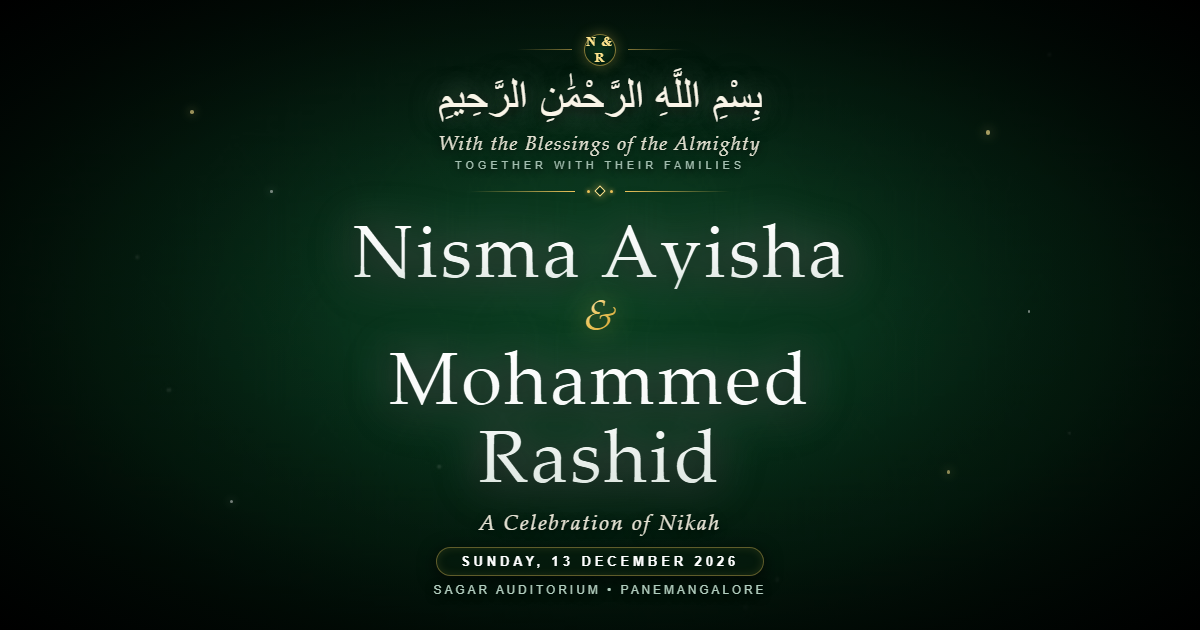
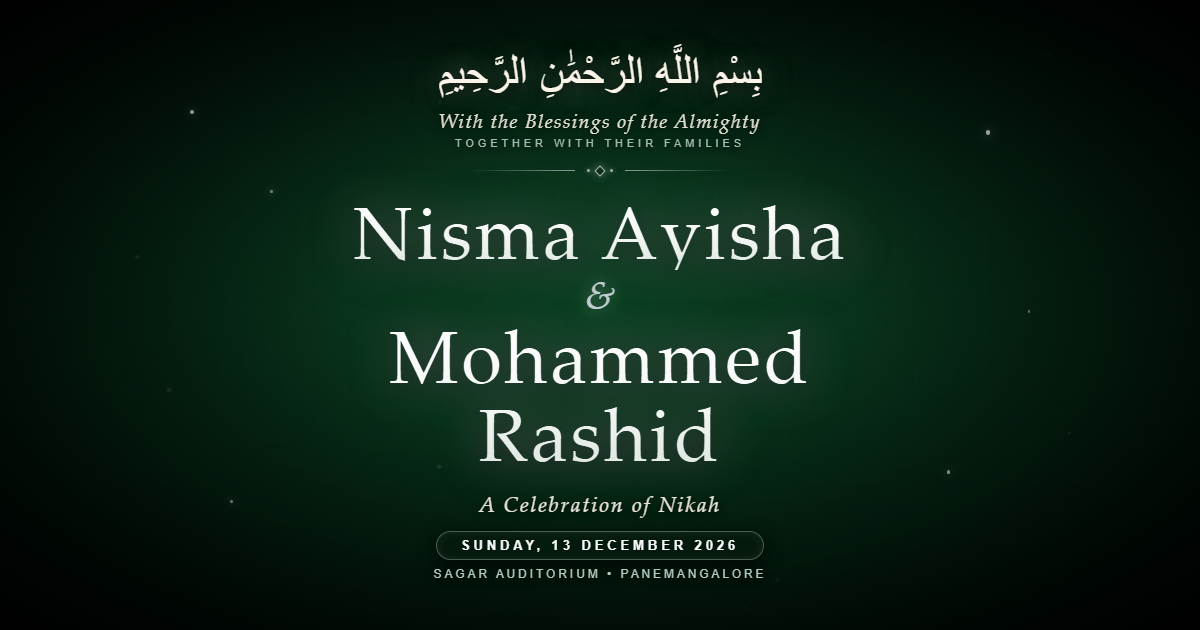
Remove N&R monogram and all gold elements: pure frost silver and dark green vignette

Changed region(s): [[0.3083, 0.5127, 0.6783, 0.9651], [0.2775, 0.0603, 0.7092, 0.5127]]

diff --git a/public/og-preview.html b/public/og-preview.html
@@ -2,10 +2,10 @@
 <html lang="en">
 <head>
   <meta charset="UTF-8">
-  <title>OG Preview Card - Seamless Dark Green Vignette</title>
+  <title>OG Preview Card - Frost Silver Dark Green Vignette</title>
   <link rel="preconnect" href="https://fonts.googleapis.com">
   <link rel="preconnect" href="https://fonts.gstatic.com" crossorigin>
-  <link href="https://fonts.googleapis.com/css2?family=Amiri:wght@400;700&family=Cinzel:wght@400;600;700&family=Cormorant+Garamond:ital,wght@0,300;0,400;0,500;0,600;1,400;1,500&family=Plus+Jakarta+Sans:wght@300;400;500;600;700&display=swap" rel="stylesheet">
+  <link href="https://fonts.googleapis.com/css2?family=Amiri:wght@400;700&family=Cinzel:wght@400;600;700&family=Cormorant+Garamond:ital,wght@0,300;0,400;0,500;0,600;1,300;1,400;1,500&family=Plus+Jakarta+Sans:wght@300;400;500;600;700&display=swap" rel="stylesheet">
   <style>
     * {
       margin: 0;
@@ -54,18 +54,18 @@
       pointer-events: none;
     }
 
-    /* Ambient Floating Starlight Particles */
+    /* Ambient Floating Frost Starlight Particles */
     .starlight {
       position: absolute;
       border-radius: 50%;
       pointer-events: none;
     }
-    .star-1 { width: 3.5px; height: 3.5px; background: #FFE58F; top: 110px; left: 190px; opacity: 0.6; box-shadow: 0 0 10px #FFE58F; }
-    .star-2 { width: 2.5px; height: 2.5px; background: #FFF; top: 190px; left: 270px; opacity: 0.45; box-shadow: 0 0 8px #FFF; }
-    .star-3 { width: 4.5px; height: 4.5px; background: #FFE58F; top: 130px; right: 210px; opacity: 0.65; box-shadow: 0 0 12px #FFE58F; }
-    .star-4 { width: 3px; height: 3px; background: #FFF; top: 500px; left: 230px; opacity: 0.45; box-shadow: 0 0 8px #FFF; }
-    .star-5 { width: 3.5px; height: 3.5px; background: #FFE58F; top: 470px; right: 250px; opacity: 0.55; box-shadow: 0 0 10px #FFE58F; }
-    .star-6 { width: 2.5px; height: 2.5px; background: #FFF; top: 310px; right: 170px; opacity: 0.45; }
+    .star-1 { width: 3.5px; height: 3.5px; background: #FFFFFF; top: 110px; left: 190px; opacity: 0.55; box-shadow: 0 0 10px rgba(255, 255, 255, 0.7); }
+    .star-2 { width: 2.5px; height: 2.5px; background: #E2E8F0; top: 190px; left: 270px; opacity: 0.45; box-shadow: 0 0 8px #FFF; }
+    .star-3 { width: 4.5px; height: 4.5px; background: #FFFFFF; top: 130px; right: 210px; opacity: 0.6; box-shadow: 0 0 12px rgba(255, 255, 255, 0.8); }
+    .star-4 { width: 3px; height: 3px; background: #E2E8F0; top: 500px; left: 230px; opacity: 0.45; box-shadow: 0 0 8px #FFF; }
+    .star-5 { width: 3.5px; height: 3.5px; background: #FFFFFF; top: 470px; right: 250px; opacity: 0.5; box-shadow: 0 0 10px rgba(255, 255, 255, 0.7); }
+    .star-6 { width: 2.5px; height: 2.5px; background: #E2E8F0; top: 310px; right: 170px; opacity: 0.4; }
 
     /* Central Content Box - Strictly 680px for perfect WhatsApp Web square-crop */
     .content-box {
@@ -78,46 +78,13 @@
       z-index: 10;
     }
 
-    /* Royal Bridal Monogram Badge */
-    .monogram-badge {
-      display: flex;
-      align-items: center;
-      justify-content: center;
-      gap: 12px;
-      margin-bottom: 8px;
-    }
-    .monogram-wing {
-      width: 55px;
-      height: 1px;
-      background: linear-gradient(90deg, transparent, rgba(236, 195, 90, 0.55));
-    }
-    .monogram-wing.right {
-      background: linear-gradient(270deg, transparent, rgba(236, 195, 90, 0.55));
-    }
-    .monogram-circle {
-      display: flex;
-      align-items: center;
-      justify-content: center;
-      width: 32px;
-      height: 32px;
-      border-radius: 50%;
-      border: 1px solid rgba(236, 195, 90, 0.55);
-      background: radial-gradient(circle, #09331a 0%, #03170b 100%);
-      box-shadow: 0 0 14px rgba(236, 195, 90, 0.3);
-      font-family: 'Cormorant Garamond', serif;
-      font-size: 13px;
-      font-weight: 600;
-      color: #FFE58F;
-      letter-spacing: 0.1em;
-    }
-
     /* Bismillah Calligraphy */
     .bismillah {
       font-family: 'Amiri', serif;
       font-size: 44px;
       color: #FAF5E8;
       letter-spacing: 0.04em;
-      margin-bottom: 5px;
+      margin-bottom: 6px;
       text-shadow: 
         0 0 30px rgba(250, 245, 232, 0.5),
         0 3px 12px rgba(0, 0, 0, 0.9);
@@ -140,26 +107,27 @@
       letter-spacing: 0.4em;
       text-transform: uppercase;
       color: #A3BFB0;
-      margin-bottom: 16px;
+      margin-bottom: 18px;
       font-weight: 500;
       text-shadow: 0 2px 6px rgba(0, 0, 0, 0.8);
     }
 
-    /* Luxury Gold Divider */
+    /* Frost Silver Divider */
     .divider {
       display: flex;
       align-items: center;
       justify-content: center;
       width: 260px;
-      margin: 0 auto 16px;
+      margin: 0 auto 18px;
+      opacity: 0.85;
     }
     .divider-line {
       flex: 1;
       height: 1px;
-      background: linear-gradient(90deg, transparent, #ECC35A);
+      background: linear-gradient(90deg, transparent, rgba(226, 232, 240, 0.7));
     }
     .divider-line.right {
-      background: linear-gradient(270deg, transparent, #ECC35A);
+      background: linear-gradient(270deg, transparent, rgba(226, 232, 240, 0.7));
     }
     .divider-center {
       display: flex;
@@ -171,24 +139,24 @@
       width: 3px;
       height: 3px;
       border-radius: 50%;
-      background: #ECC35A;
-      box-shadow: 0 0 4px #ECC35A;
+      background: rgba(226, 232, 240, 0.8);
+      box-shadow: 0 0 4px rgba(255, 255, 255, 0.6);
     }
     .divider-diamond {
       width: 8px;
       height: 8px;
-      border: 1px solid #FFE58F;
+      border: 1px solid rgba(248, 250, 252, 0.8);
       background: #092e18;
       transform: rotate(45deg);
-      box-shadow: 0 0 8px rgba(236, 195, 90, 0.6);
+      box-shadow: 0 0 8px rgba(255, 255, 255, 0.4);
     }
 
-    /* Stately Couple Names with Luminous Glow */
+    /* Stately Couple Names in Frost Silver */
     .couple-names {
       display: flex;
       flex-direction: column;
       align-items: center;
-      margin-bottom: 14px;
+      margin-bottom: 16px;
     }
     .name {
       font-family: 'Cormorant Garamond', 'Palatino Linotype', 'Georgia', serif;
@@ -204,12 +172,10 @@
     .ampersand {
       font-family: 'Cormorant Garamond', 'Palatino Linotype', serif;
       font-style: italic;
-      font-size: 42px;
-      margin: -4px 0;
-      background: linear-gradient(135deg, #FFF6D8 0%, #ECC35A 50%, #C99A24 100%);
-      -webkit-background-clip: text;
-      -webkit-text-fill-color: transparent;
-      filter: drop-shadow(0 0 14px rgba(236, 195, 90, 0.7));
+      font-size: 38px;
+      margin: -2px 0;
+      color: rgba(226, 232, 240, 0.85);
+      text-shadow: 0 0 16px rgba(255, 255, 255, 0.4);
     }
 
     /* Celebration & Details */
@@ -224,20 +190,20 @@
       font-size: 22px;
       color: rgba(245, 240, 225, 0.95);
       letter-spacing: 0.08em;
-      margin-bottom: 10px;
+      margin-bottom: 12px;
       text-shadow: 0 2px 8px rgba(0, 0, 0, 0.8);
     }
 
-    /* Gold-Bordered Date Badge */
+    /* Frost Silver Date Badge */
     .date-badge {
       display: inline-flex;
       align-items: center;
       justify-content: center;
       padding: 6px 24px;
-      border: 1px solid rgba(236, 195, 90, 0.4);
+      border: 1px solid rgba(226, 232, 240, 0.32);
       border-radius: 9999px;
       background: rgba(4, 26, 13, 0.65);
-      box-shadow: 0 4px 18px rgba(0, 0, 0, 0.7), inset 0 0 10px rgba(236, 195, 90, 0.12);
+      box-shadow: 0 4px 18px rgba(0, 0, 0, 0.7), inset 0 0 10px rgba(255, 255, 255, 0.08);
       margin-bottom: 8px;
     }
     .date-text {
@@ -245,7 +211,7 @@
       font-size: 13px;
       letter-spacing: 0.3em;
       text-transform: uppercase;
-      color: #FFF;
+      color: #F8FAFC;
       font-weight: 600;
     }
 
@@ -265,7 +231,7 @@
     <div class="bg-texture"></div>
     <div class="vignette-layer"></div>
 
-    <!-- Ambient Floating Stars -->
+    <!-- Ambient Floating Frost Stars -->
     <div class="starlight star-1"></div>
     <div class="starlight star-2"></div>
     <div class="starlight star-3"></div>
@@ -273,21 +239,14 @@
     <div class="starlight star-5"></div>
     <div class="starlight star-6"></div>
 
-    <!-- Central Content Box (Zero borders, seamless edge blend) -->
+    <!-- Central Content Box (Zero borders, zero gold, pure frost silver) -->
     <div class="content-box">
-      <!-- Monogram Crest -->
-      <div class="monogram-badge">
-        <div class="monogram-wing"></div>
-        <div class="monogram-circle">N &amp; R</div>
-        <div class="monogram-wing right"></div>
-      </div>
-
       <!-- Bismillah Arabic Calligraphy -->
       <div class="bismillah">بِسْمِ اللَّهِ الرَّحْمَٰنِ الرَّحِيمِ</div>
       <div class="sub-blessing">With the Blessings of the Almighty</div>
       <div class="families">TOGETHER WITH THEIR FAMILIES</div>
 
-      <!-- Multi-Layer Gold Divider -->
+      <!-- Frost Silver Divider -->
       <div class="divider">
         <div class="divider-line"></div>
         <div class="divider-center">
@@ -305,7 +264,7 @@
         <div class="name">Mohammed Rashid</div>
       </div>
 
-      <!-- Event Details & Gold-Bordered Date Badge -->
+      <!-- Event Details & Frost Silver Date Badge -->
       <div class="details">
         <div class="celebration">A Celebration of Nikah</div>
         <div class="date-badge">

diff --git a/src/components/CoverLandingPage.tsx b/src/components/CoverLandingPage.tsx
@@ -17,15 +17,6 @@ export const CoverLandingPage: React.FC<CoverLandingPageProps> = ({ onOpenInvita
       {/* Decorative Outer Border Card Frame */}
       <div className="relative w-full max-w-xl md:max-w-2xl mx-auto py-8 sm:py-12 px-4 sm:px-10 flex flex-col items-center">
         
-        {/* Royal Monogram Badge */}
-        <div className="flex items-center justify-center space-x-3 mb-5 opacity-90">
-          <div className="w-10 sm:w-16 h-[1px] bg-gradient-to-r from-transparent to-amber-300/60" />
-          <div className="w-8 h-8 rounded-full border border-amber-300/60 bg-gradient-to-br from-emerald-900 to-emerald-950 flex items-center justify-center shadow-[0_0_12px_rgba(245,215,127,0.3)]">
-            <span className="font-serif text-xs font-semibold text-amber-200 tracking-wider">N &amp; R</span>
-          </div>
-          <div className="w-10 sm:w-16 h-[1px] bg-gradient-to-l from-transparent to-amber-300/60" />
-        </div>
-
         {/* Top: Bismillah Arabic Calligraphy */}
         <div className="mb-4">
           <h1
@@ -47,25 +38,25 @@ export const CoverLandingPage: React.FC<CoverLandingPageProps> = ({ onOpenInvita
           TOGETHER WITH THEIR FAMILIES
         </p>
 
-        {/* Delicate Diamond Divider in Gold & Frost Silver */}
-        <div className="flex items-center justify-center w-48 sm:w-64 mx-auto mb-6 sm:mb-8 opacity-85">
-          <div className="h-[1px] flex-1 bg-gradient-to-r from-transparent via-amber-300/40 to-amber-300/70" />
+        {/* Delicate Diamond Divider in Frost Silver */}
+        <div className="flex items-center justify-center w-48 sm:w-64 mx-auto mb-6 sm:mb-8 opacity-80">
+          <div className="h-[1px] flex-1 bg-gradient-to-r from-transparent via-frost/30 to-frost/70" />
           <div className="mx-3 flex items-center justify-center space-x-1.5">
-            <div className="w-1 h-1 rounded-full bg-amber-300/70" />
-            <div className="w-2 h-2 rotate-45 border border-amber-300 bg-[#082213] shadow-[0_0_8px_rgba(245,215,127,0.4)]" />
-            <div className="w-1 h-1 rounded-full bg-amber-300/70" />
+            <div className="w-1 h-1 rounded-full bg-frost/70" />
+            <div className="w-1.5 h-1.5 rotate-45 border border-frost/70 bg-[#082213] shadow-[0_0_6px_rgba(255,255,255,0.3)]" />
+            <div className="w-1 h-1 rounded-full bg-frost/70" />
           </div>
-          <div className="h-[1px] flex-1 bg-gradient-to-l from-transparent via-amber-300/40 to-amber-300/70" />
+          <div className="h-[1px] flex-1 bg-gradient-to-l from-transparent via-frost/30 to-frost/70" />
         </div>
 
-        {/* Couple's Names: Title Case, Luminous Frost Silver with Gold Ampersand */}
+        {/* Couple's Names: Title Case, Luminous Frost Silver */}
         <div className="my-2 sm:my-3 flex flex-col items-center w-full">
           <h2 className="font-serif text-4xl sm:text-5xl md:text-6xl lg:text-7xl font-normal text-frost-bright tracking-wide leading-tight text-luminous">
             Nisma Ayisha
           </h2>
 
-          <div className="my-2 sm:my-3">
-            <span className="font-serif italic text-3xl sm:text-4xl md:text-5xl bg-gradient-to-br from-amber-100 via-amber-300 to-amber-500 bg-clip-text text-transparent font-normal drop-shadow-[0_0_12px_rgba(245,215,127,0.5)]">
+          <div className="my-1.5 sm:my-2.5">
+            <span className="font-serif italic text-2xl sm:text-3xl md:text-4xl text-frost/80 font-light">
               &amp;
             </span>
           </div>
@@ -80,7 +71,7 @@ export const CoverLandingPage: React.FC<CoverLandingPageProps> = ({ onOpenInvita
           <p className="font-serif italic text-base sm:text-lg text-frost/90 font-light tracking-wider mb-2">
             A Celebration of Nikah
           </p>
-          <div className="inline-flex items-center justify-center px-4 sm:px-6 py-1.5 rounded-full border border-amber-300/40 bg-emerald-950/60 shadow-[0_4px_16px_rgba(0,0,0,0.5)] mb-2">
+          <div className="inline-flex items-center justify-center px-4 sm:px-6 py-1.5 rounded-full border border-frost/30 bg-emerald-950/60 shadow-[0_4px_16px_rgba(0,0,0,0.5)] mb-2">
             <span className="font-sans text-[11px] sm:text-xs tracking-[0.3em] text-frost-bright font-semibold uppercase">
               SUNDAY, 13 DECEMBER 2026
             </span>
